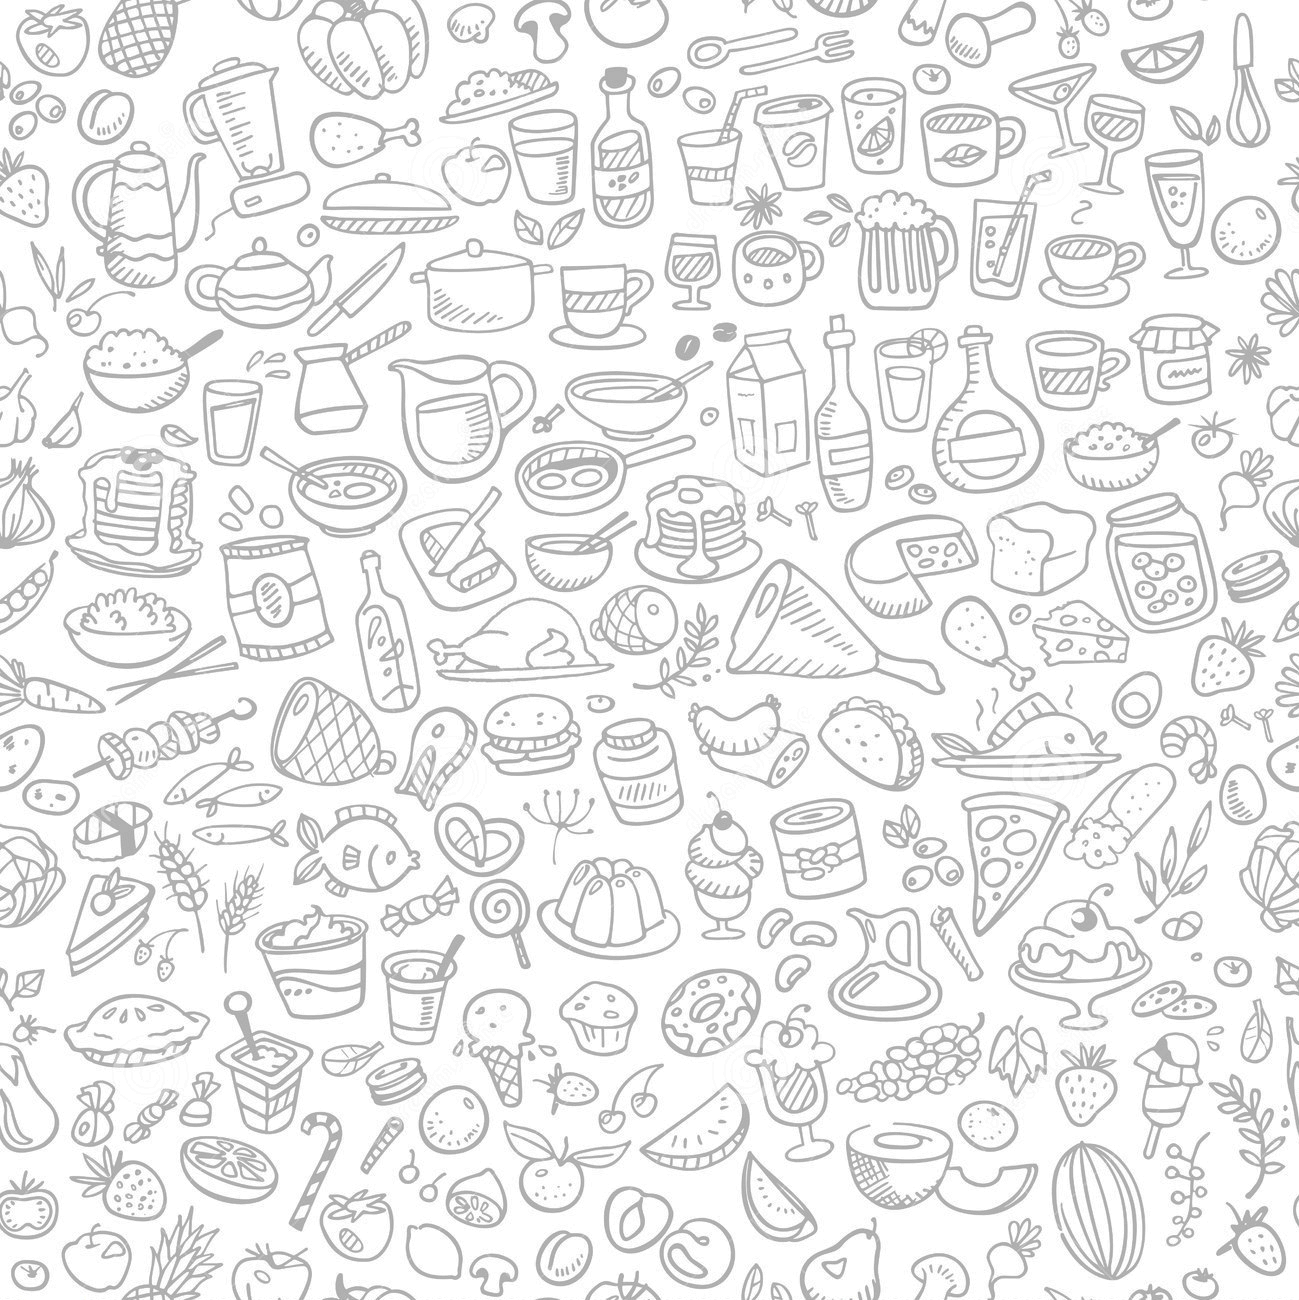
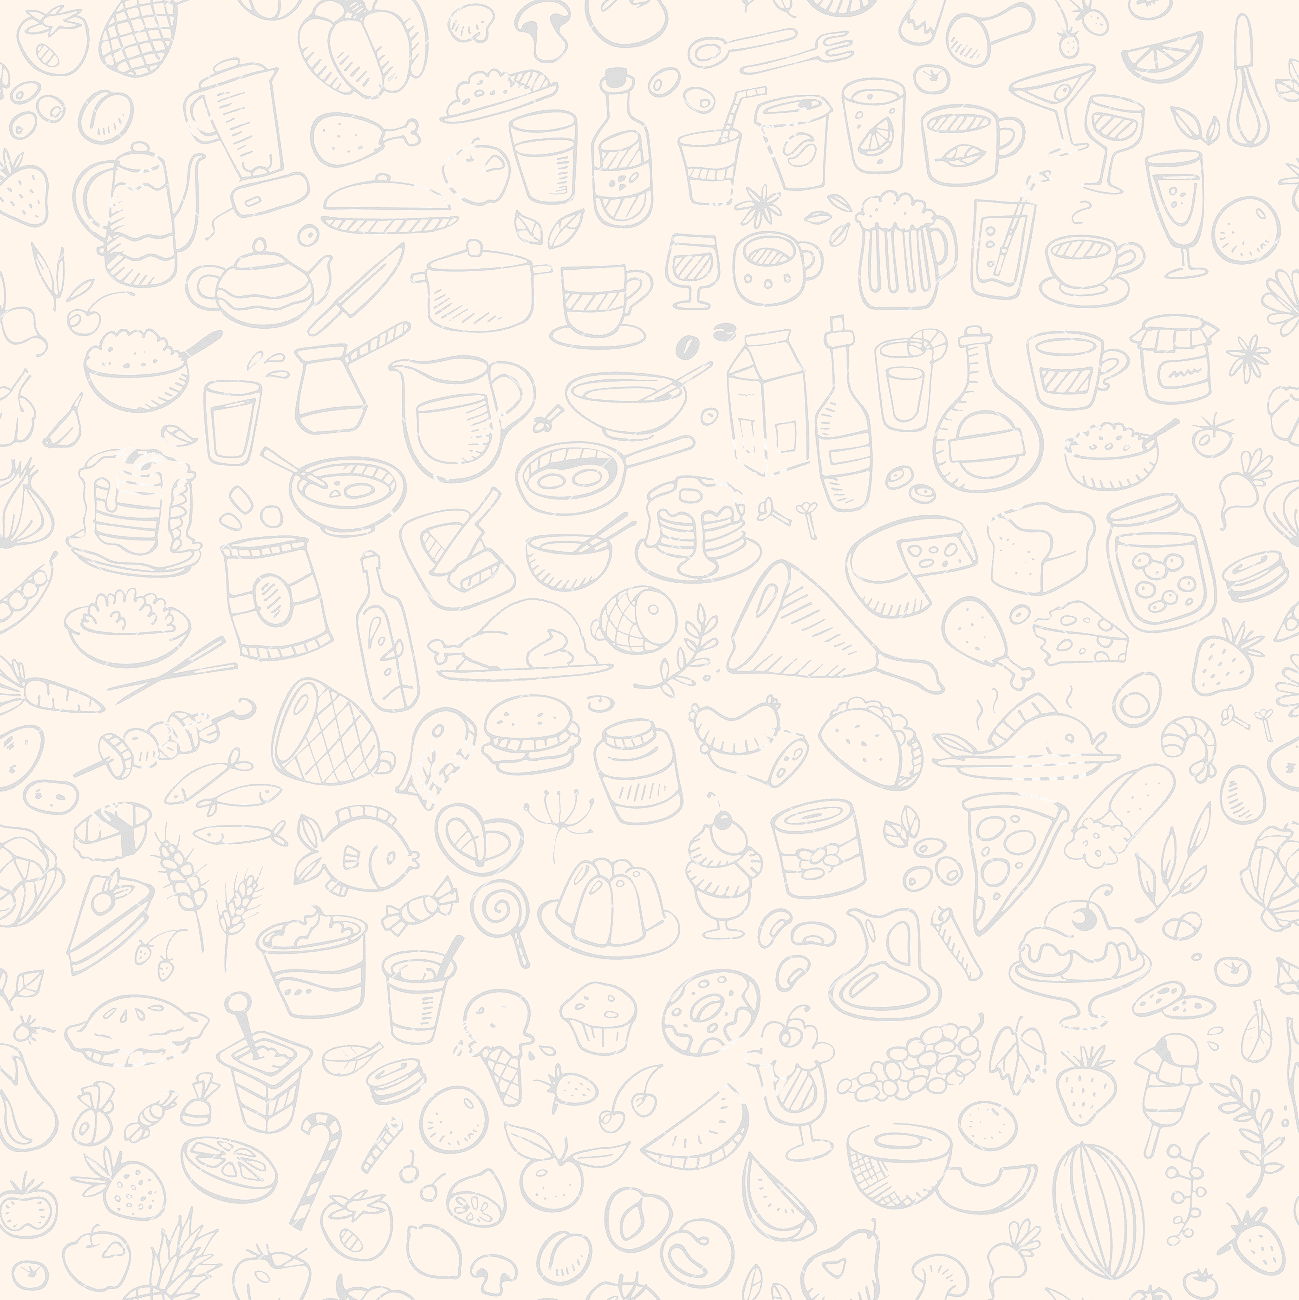
Renamed Page to Main + Added new Background

Changed region(s): [[0.0, 0.0, 1.0, 1.0]]

diff --git a/frontend/src/pages/Recipes.js b/frontend/src/pages/Recipes.js
@@ -2,11 +2,13 @@ import Main from "../components/Main";
 import RecipeList from "../components/RecipeList";
 import styled from "styled-components/macro";
 
-export default function Recipes() {
-  return (<Main>
-    <Titel>Alle Rezepte:</Titel>
-    <RecipeList recipes={recipes} />
-  </Main>);
+export default function Recipes({ recipes }) {
+  return (
+    <Main>
+      <Titel>Alle Rezepte:</Titel>
+      <RecipeList recipes={recipes} />
+    </Main>
+  );
 }
 const Titel = styled.section`
   display: flex;
